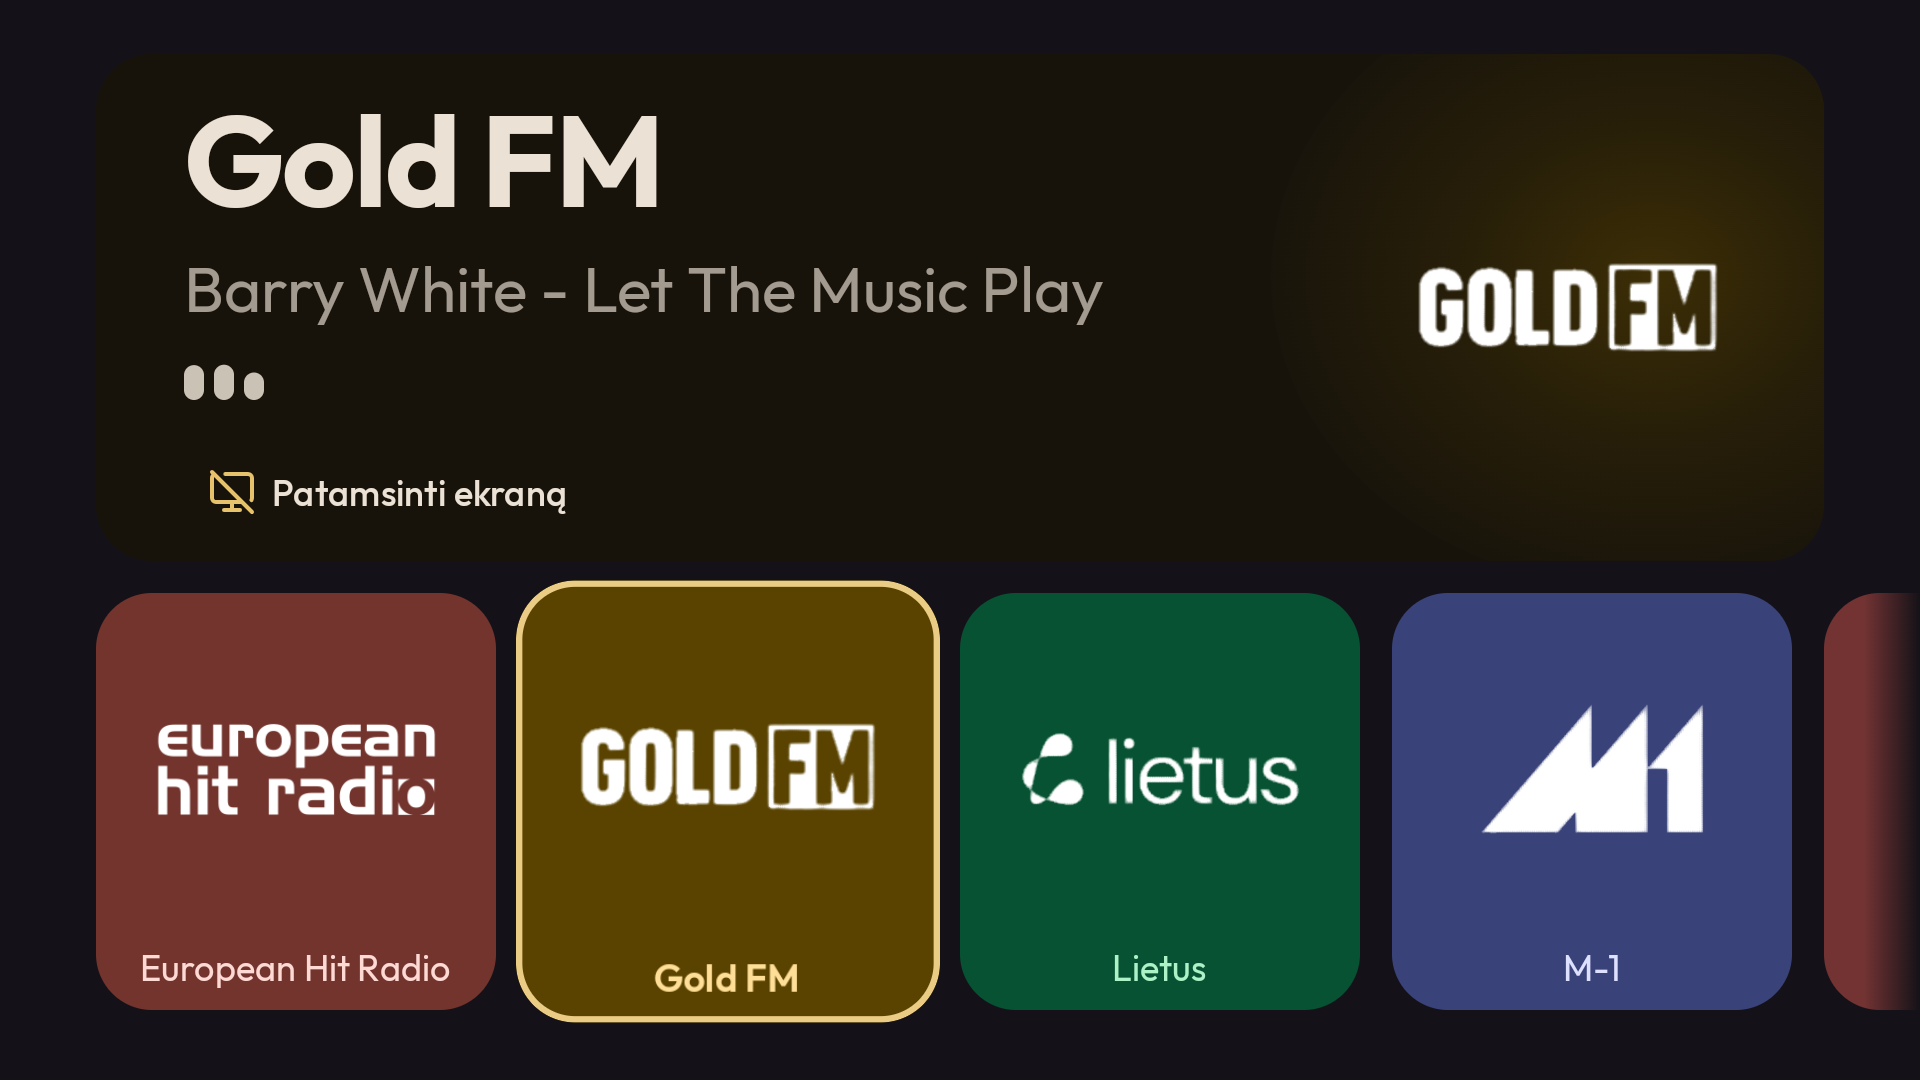
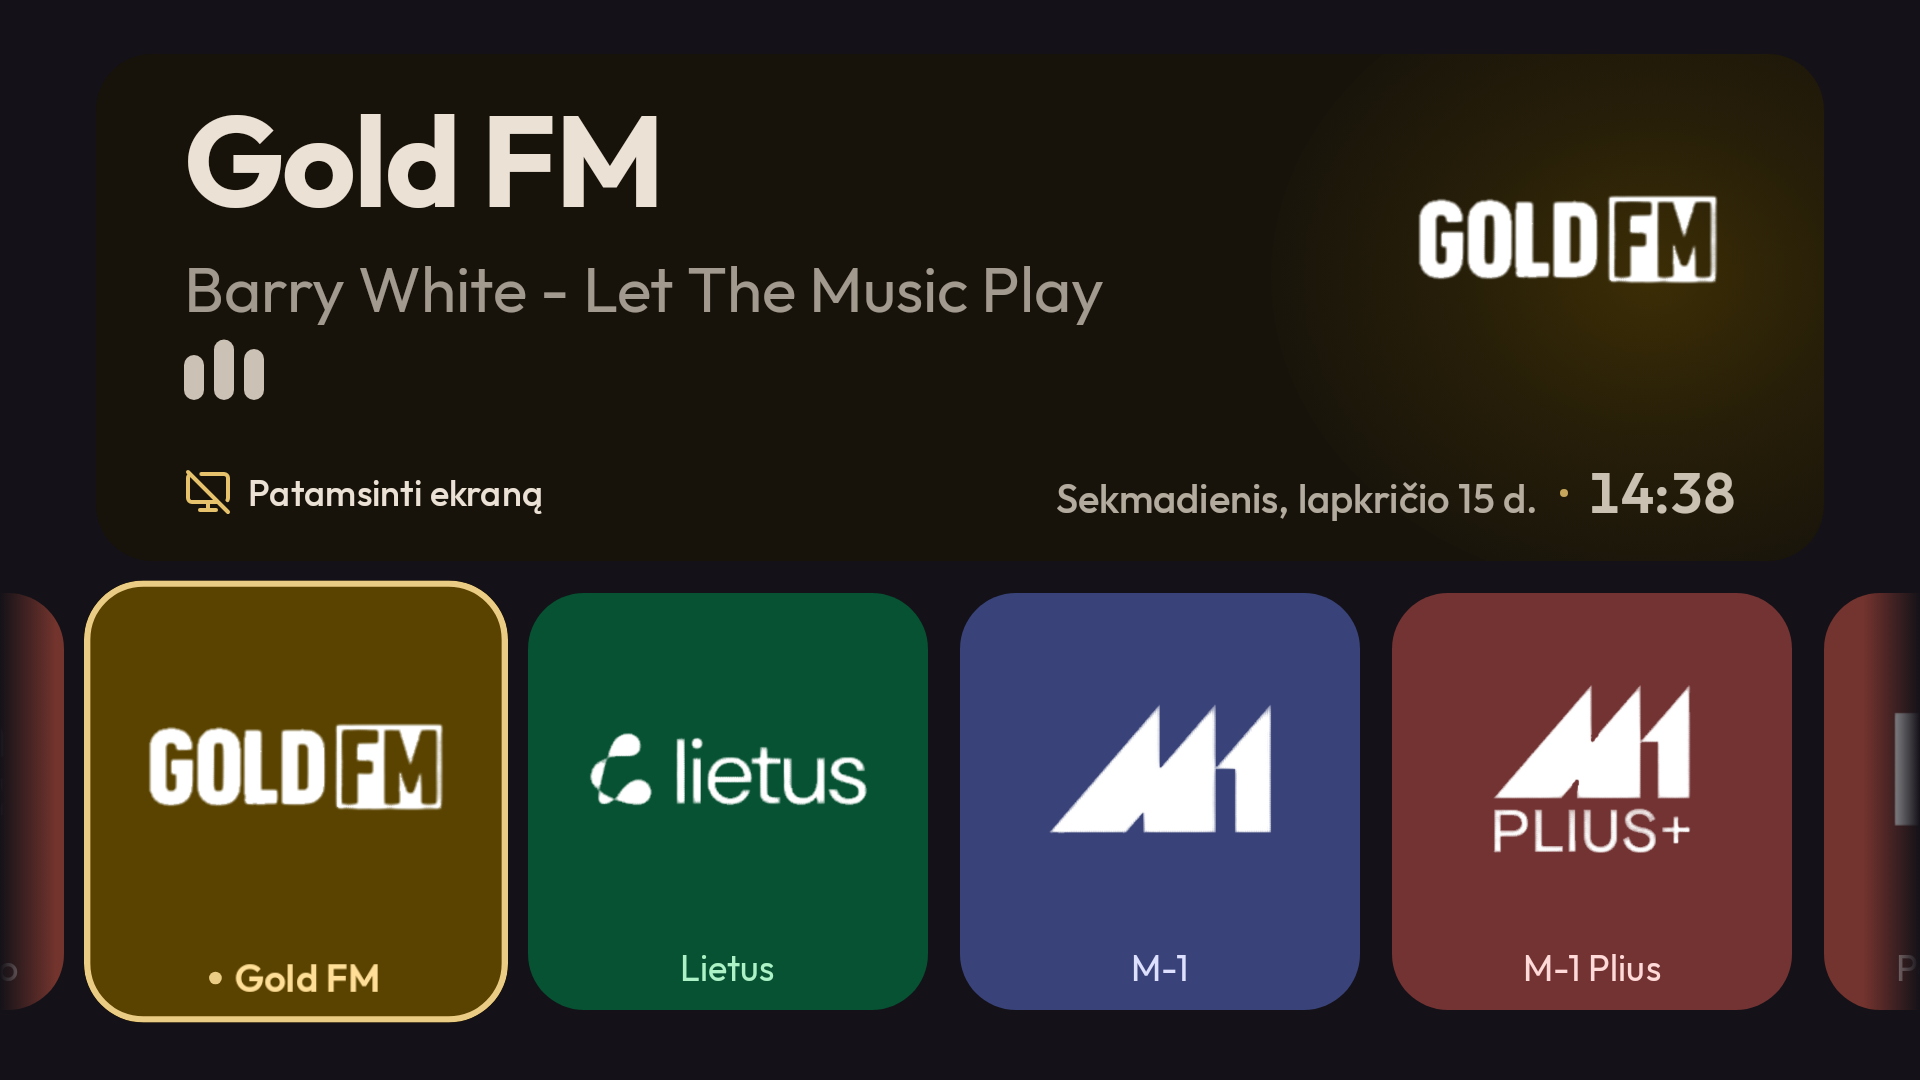
docs: update README, STATUS and 1080p UI screenshots
- Refresh lietus, gold-fm and screen-control screenshots and add screen-off preview
- Document live clock/date, ambient blackout view, volume pass-through and current 125-test status

diff --git a/docs/STATUS.md b/docs/STATUS.md
@@ -1,6 +1,6 @@
 # Būsena
 
-Atnaujinta: 2026-10-30 (paskutinė testų ir lint patikra — 17:39)
+Atnaujinta: 2026-11-15 (paskutinė testų ir lint patikra — 125 testai, 0 klaidų, 0 lint klaidų)
 
 Šis failas skirtas tam, kas tęsia darbus po pertraukos arba kitoje mašinoje. README pasakoja, kas tai per programa. Čia surašyta, kas padaryta, kas liko ir kokie sprendimai dar nepriimti.
 
@@ -28,8 +28,10 @@ Atnaujinta: 2026-10-30 (paskutinė testų ir lint patikra — 17:39)
 - **Logotipų optinė normalizacija (2026-10-30):** stoties ženklas nebėra tempiasi į 156 dp kvadratą. `ui/theme/StationLogoScale.kt` laiko vieno ženklo pločio dalį; wordmark'ai (EHR, Gold FM, Lietus, Relax, Rock, ZIP) lieka per visą plotį, o tankūs kompaktiški ženklai mažinami (M-1 Plius 0,71, M-1 0,80, PHR Gold 0,83, RC 0,84, Power Hit 0,93), kol jų „rašalo" plotas siekia ~4200 dp². `StationLogoScaleTest` perskaičiuoja tai iš PNG, tad lentelė negali savaime išsiderinti.
 - **Hallmark audito restyle (2026-10-30):** tipografinė skalė perkelta į temą ir apversta hierarchija ištaisyta — stoties vardas 96→64 sp, daina 26→32 sp, būsena 24→28 sp, plytelės etiketė 16→18 sp, plytelė 176→200 dp; „Ekranas" nefokusuotas nebėra piliulė (tik glyph), o fokusuotas rodo užrašą. Juodas ekrano kadras gavo `ScreenOffBlack` tokeną. Pridėtas kontrolės glyph'o kontrasto testas (4.67:1). Įrašyta dizaino dokumente §12.
 - **Plytelių žymėjimas ir fokuso grįžimas (2026-10-30):** pašalinta grojimo juosta nuo plytelės (lieka fokuso rėmelis); „Ekranas" → atgal `↓` grąžina į tą pačią plytelę, kurią palikai (`ShelfFocusState` + scroll + focus; testas `HeroPanelTest`).
-- Testų būsena (2026-10-30 18:25): **99 testai, 0 klaidų** (`app/build/test-results/testDebugUnitTest`), lint **0 klaidų / 31 įspėjimas**. Iš jų 18 nauji: `PlayerStateMappingTest` (8), `StationSelectionTest` (6), `PlayerStatusTest` (+2), `StationShelfTest` (+2 accessibility). Ankstesnis 78 testų skaičius yra to paties dokumento istorija (žr. `docs/2026-10-30-radio-update.md` įžangą).
-- Po viršelių pašalinimo Java 21 patikra: 78 testai praeina, debug APK susirenka, lint — 0 klaidų / 31 įspėjimas (to meto skaičius; dabar — 96, žr. aukščiau). Išsamūs įrodymai ir screenshotai — `docs/2026-10-30-radio-update.md` ir `docs/screenshots/2026-10-30/`.
+- **Laikrodis, data ir užtemdyto ekrano indikatorius (2026-11-15):** pagrindiniame hero ekrane (`ui/HeroClock.kt`, `ui/HeroPanel.kt`) rodoma 24 val. laikas (`tnum`) ir lietuviška data apatinėje eilutėje šalia „Patamsinti ekraną" (patikrinta ir su `fontScale = 1.3f`); mygtuko ikona optiškai sulygiuota su kairiuoju hero stulpeliu; kūrinių kaitai pridėtas `200 ms` skaidrumo perėjimas.
+- **Patamsinto ekrano naktinis vaizdas ir OLED apsauga (2026-11-15):** `ui/ScreenOffOverlay.kt` juodame fone blankiai rodo laiką ir grojamą kūrinį (iki 2 eilučių; be meta — stoties pavadinimą), o visas turinys kas minutę švelniai pasislenka (`screenOffPixelShiftDp`, ±6 dp × ±4 dp).
+- **Android TV elgsena, prieinamumas ir plytelių žymėjimas (2026-11-15):** pridėtas `BackHandler(enabled = screenOff)` (`MainActivity.kt`), `VOLUME_UP`/`VOLUME_DOWN`/`VOLUME_MUTE` praleidžiami neatjungiant tamsaus ekrano (`ScreenOffPolicy.kt`), foninis UI paslepiamas nuo fokuso ir TalkBack kol ekranas užtemdytas, būsenos tekstams įjungtas `LiveRegionMode.Polite`, o grojanti nefokusuota `StationTile` rodo 2 dp rėmelį ir taškelį šalia pavadinimo.
+- Testų būsena (2026-11-15): **24 testų rinkiniai, 125 testai, 0 klaidų** (`app/build/test-results/testDebugUnitTest`), Android Lint **0 klaidų / 31 esamas įspėjimas**. Dabartinės 1920×1080 ekrano nuotraukos atnaujintos `docs/screenshots/current/`. (Ankstesnis 2026-10-30 etapas turėjo 99 testus; žr. `docs/2026-10-30-radio-update.md`.)
 - README, ekrano nuotraukos, logotipas, TV baneris, AI autorystės disclosure.
 - Išvalyta prieš išleidimą: pašalintas ekvalaizerio kodas, nenaudojami piešiniai, `Coil`, `material3`, `viewmodel-compose`, `roborazzi`, instrumentation testų priklausomybės ir visi `Fogwave` pavadinimai kode (`RadijasPlaybackService`, `Theme.Radijas`, `radijas_prefs`).
 

diff --git a/README.md b/README.md
@@ -10,13 +10,13 @@ Lietuviškas radijas tavo Android TV: vienas ekranas, 11 stočių ir jokio meniu
 
 </div>
 
-<img src="docs/screenshots/current/lietus.png" alt="Radijas Android TV ekrane: groja Lietus, apačioje matoma stočių lentyna" width="100%">
+<img src="docs/screenshots/current/lietus.png" alt="Radijas Android TV ekrane: groja Lietus, matoma daina, laikas, data ir stočių lentyna" width="100%">
 
-| Gold FM | Pasirinktas ekrano patamsinimo mygtukas |
-|---|---|
-| <img src="docs/screenshots/current/gold-fm.png" alt="Gold FM groja Android TV emuliatoriuje" width="100%"> | <img src="docs/screenshots/current/screen-control.png" alt="Pultu pasirinktas mygtukas Patamsinti ekraną" width="100%"> |
+| Gold FM | Pasirinktas mygtukas „Patamsinti ekraną“ | Užtemdytas ekranas |
+|---|---|---|
+| <img src="docs/screenshots/current/gold-fm.png" alt="Gold FM groja su dabartiniu laiku ir data" width="100%"> | <img src="docs/screenshots/current/screen-control.png" alt="Pultu pasirinktas mygtukas Patamsinti ekraną, grojanti EHR plytelė pažymėta žymekliu" width="100%"> | <img src="docs/screenshots/current/screen-off.png" alt="Užtemdytas ekranas juodame fone rodo blankų laiką ir grojamą kūrinį" width="100%"> |
 
-Ekrano nuotraukos padarytos Android TV emuliatoriuje.
+Ekrano nuotraukos sugeneruotos iš dabartinės programėlės Compose UI (1920×1080).
 
 ## Kam tai skirta?
 
@@ -25,10 +25,10 @@ Pirmiausia savo tėvams: žmonėms, kurie nori įsijungti radiją televizoriuje 
 ## Ką gali?
 
 - **Iškart groja** paskutinę klausytą stotį; pirmą kartą groja Lietus.
-- **11 lietuviškų stočių**, kurias lengva pasirinkti televizoriaus pultu.
+- **11 lietuviškų stočių**, kurias lengva pasirinkti televizoriaus pultu; grojanti stotis karuselėje pažymėta taškeliu ir rėmeliu net kai fokusas perkeltas kitur.
 - **Automatiškai bando prisijungti iš naujo**, nutrūkus ryšiui.
-- **Rodo, kas groja**, kai stotis pateikia dainos informaciją.
-- **Pajuodina ekraną**, kai norisi tik garso. Tai juodas vaizdas, o ne fizinis ekrano išjungimas.
+- **Rodo, kas groja**, kai stotis pateikia dainos informaciją, taip pat **dabartinį laiką ir datą** pagrindiniame ekrane.
+- **Patamsina ekraną**, kai norisi tik garso: juodame fone blankiai lieka galioti dabartinis laikas ir grojantis kūrinys (arba stoties pavadinimas, jei kūrinio meta nėra) su kasminutiniu poslinkiu OLED ekranų apsaugai. Garso mygtukai veikia neatjungiant tamsaus režimo, o bet kuris kitas pulto mygtukas grąžina vaizdą. Tai juodas vaizdas, o ne fizinis ekrano išjungimas.
 - **Jokių paskyrų, reklamų ar analitikos.** Radijo stočių ir metaduomenų serveriai mato įrenginio IP adresą.
 
 ## Kodėl taip paprastai?
